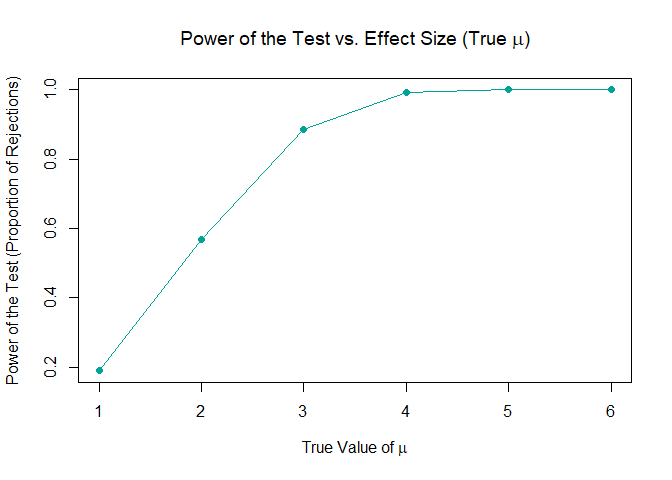
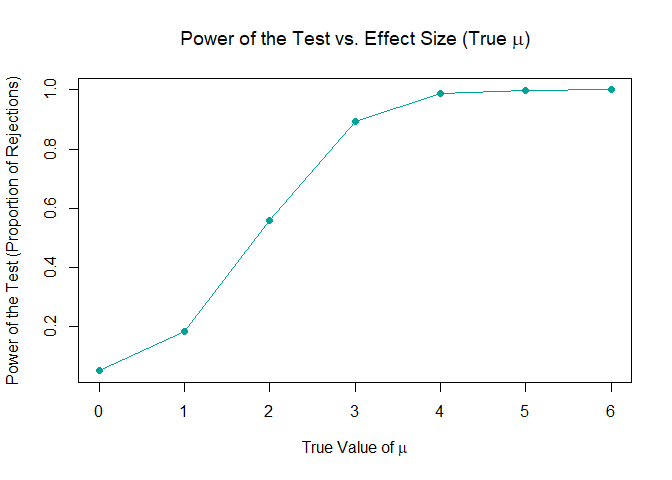
minor fixes; added kable to avoid potential point loss.

diff --git a/p8105_hw5_xx2485.md b/p8105_hw5_xx2485.md
@@ -11,6 +11,7 @@ library(dplyr)
 library(readr)
 library(purrr)
 library(tidyr)
+library(knitr)
 library(ggplot2)
 ```
 
@@ -32,7 +33,7 @@ has_duplicate_birthday <- function(n) {
 has_duplicate_birthday(23)
 ```
 
-    ## [1] TRUE
+    ## [1] FALSE
 
 Run this function 10000 times for each group size between 2 and 50.
 
@@ -114,7 +115,7 @@ Repeat for mu = 1, 2, 3, 4, 5, 6
 
 ``` r
 # Run the simulation for mu values from 1 to 6
-mu_values <- 1:6
+mu_values <- 0:6
 results <- list()
 
 for (mu in mu_values) {
@@ -196,7 +197,11 @@ No, the sample average of $\hat{\mu}$ across tests for which the null is
 rejected is generally NOT approximately equal to the true value of
 $\mu$. This discrepancy can be seen on the plot for lower $\mu$ values
 of 1, 2, and 3. For $\mu$ = 4, 5, 6, the sample average of $\hat{\mu}$
-is closer t the true value of $\mu$.
+is closer t the true value of $\mu$. For $\mu$ = 0, the observed data
+has no deviation from 0, thus no effect size. The variability in
+$\hat{\mu}$ only comes from random sampling error, which is balanced
+around the true value of 0. This explains $\hat{\mu}$ and $\mu$ being
+closer to each other at 0.
 
 This discrepancy arises due to selection bias. When we only consider
 samples in which the null hypothesis is rejected (i.e., $p < 0.05$), we
@@ -287,7 +292,70 @@ city_summary <- homicide_data %>%
     total_homicides = n(),
     unsolved_homicides = sum(disposition %in% unsolved_dispositions)
   )
+
+# Display the summarized data
+city_summary %>%
+  kable(
+    col.names = c("City, State", "Total Homicides", "Unsolved Homicides"),
+    caption = "Summary of Homicides by City"
+  )
 ```
+
+| City, State        | Total Homicides | Unsolved Homicides |
+|:-------------------|----------------:|-------------------:|
+| Albuquerque, NM    |             378 |                146 |
+| Atlanta, GA        |             973 |                373 |
+| Baltimore, MD      |            2827 |               1825 |
+| Baton Rouge, LA    |             424 |                196 |
+| Birmingham, AL     |             800 |                347 |
+| Boston, MA         |             614 |                310 |
+| Buffalo, NY        |             521 |                319 |
+| Charlotte, NC      |             687 |                206 |
+| Chicago, IL        |            5535 |               4073 |
+| Cincinnati, OH     |             694 |                309 |
+| Columbus, OH       |            1084 |                575 |
+| Dallas, TX         |            1567 |                754 |
+| Denver, CO         |             312 |                169 |
+| Detroit, MI        |            2519 |               1482 |
+| Durham, NC         |             276 |                101 |
+| Fort Worth, TX     |             549 |                255 |
+| Fresno, CA         |             487 |                169 |
+| Houston, TX        |            2942 |               1493 |
+| Indianapolis, IN   |            1322 |                594 |
+| Jacksonville, FL   |            1168 |                597 |
+| Kansas City, MO    |            1190 |                486 |
+| Las Vegas, NV      |            1381 |                572 |
+| Long Beach, CA     |             378 |                156 |
+| Los Angeles, CA    |            2257 |               1106 |
+| Louisville, KY     |             576 |                261 |
+| Memphis, TN        |            1514 |                483 |
+| Miami, FL          |             744 |                450 |
+| Milwaukee, wI      |            1115 |                403 |
+| Minneapolis, MN    |             366 |                187 |
+| Nashville, TN      |             767 |                278 |
+| New Orleans, LA    |            1434 |                930 |
+| New York, NY       |             627 |                243 |
+| Oakland, CA        |             947 |                508 |
+| Oklahoma City, OK  |             672 |                326 |
+| Omaha, NE          |             409 |                169 |
+| Philadelphia, PA   |            3037 |               1360 |
+| Phoenix, AZ        |             914 |                504 |
+| Pittsburgh, PA     |             631 |                337 |
+| Richmond, VA       |             429 |                113 |
+| Sacramento, CA     |             376 |                139 |
+| San Antonio, TX    |             833 |                357 |
+| San Bernardino, CA |             275 |                170 |
+| San Diego, CA      |             461 |                175 |
+| San Francisco, CA  |             663 |                336 |
+| Savannah, GA       |             246 |                115 |
+| St. Louis, MO      |            1677 |                905 |
+| Stockton, CA       |             444 |                266 |
+| Tampa, FL          |             208 |                 95 |
+| Tulsa, AL          |               1 |                  0 |
+| Tulsa, OK          |             583 |                193 |
+| Washington, DC     |            1345 |                589 |
+
+Summary of Homicides by City
 
 For the city of Baltimore, MD, use the `prop.test` function to estimate
 the proportion of homicides that are unsolved; save the output of
@@ -365,13 +433,82 @@ city_results <- homicide_data %>%
     ## Caused by warning in `prop.test()`:
     ## ! Chi-squared approximation may be incorrect
 
+``` r
+# Display city_results
+city_results %>%
+  kable(
+    col.names = c("City, State", "Estimated Proportion of Unsolved Cases", "Confidence Interval Low", "Confidence Interval High"),
+    caption = "Proportion of Unsolved Homicide Cases by City with Confidence Intervals"
+  )
+```
+
+| City, State        | Estimated Proportion of Unsolved Cases | Confidence Interval Low | Confidence Interval High |
+|:-------------------|---------------------------------------:|------------------------:|-------------------------:|
+| Albuquerque, NM    |                              0.3862434 |               0.3372604 |                0.4375766 |
+| Atlanta, GA        |                              0.3833505 |               0.3528119 |                0.4148219 |
+| Baltimore, MD      |                              0.6455607 |               0.6275625 |                0.6631599 |
+| Baton Rouge, LA    |                              0.4622642 |               0.4141987 |                0.5110240 |
+| Birmingham, AL     |                              0.4337500 |               0.3991889 |                0.4689557 |
+| Boston, MA         |                              0.5048860 |               0.4646219 |                0.5450881 |
+| Buffalo, NY        |                              0.6122841 |               0.5687990 |                0.6540879 |
+| Charlotte, NC      |                              0.2998544 |               0.2660820 |                0.3358999 |
+| Chicago, IL        |                              0.7358627 |               0.7239959 |                0.7473998 |
+| Cincinnati, OH     |                              0.4452450 |               0.4079606 |                0.4831439 |
+| Columbus, OH       |                              0.5304428 |               0.5002167 |                0.5604506 |
+| Dallas, TX         |                              0.4811742 |               0.4561942 |                0.5062475 |
+| Denver, CO         |                              0.5416667 |               0.4846098 |                0.5976807 |
+| Detroit, MI        |                              0.5883287 |               0.5687903 |                0.6075953 |
+| Durham, NC         |                              0.3659420 |               0.3095874 |                0.4260936 |
+| Fort Worth, TX     |                              0.4644809 |               0.4222542 |                0.5072119 |
+| Fresno, CA         |                              0.3470226 |               0.3051013 |                0.3913963 |
+| Houston, TX        |                              0.5074779 |               0.4892447 |                0.5256914 |
+| Indianapolis, IN   |                              0.4493192 |               0.4223156 |                0.4766207 |
+| Jacksonville, FL   |                              0.5111301 |               0.4820460 |                0.5401402 |
+| Kansas City, MO    |                              0.4084034 |               0.3803996 |                0.4370054 |
+| Las Vegas, NV      |                              0.4141926 |               0.3881284 |                0.4407395 |
+| Long Beach, CA     |                              0.4126984 |               0.3629026 |                0.4642973 |
+| Los Angeles, CA    |                              0.4900310 |               0.4692208 |                0.5108754 |
+| Louisville, KY     |                              0.4531250 |               0.4120609 |                0.4948235 |
+| Memphis, TN        |                              0.3190225 |               0.2957047 |                0.3432691 |
+| Miami, FL          |                              0.6048387 |               0.5685783 |                0.6400015 |
+| Milwaukee, wI      |                              0.3614350 |               0.3333172 |                0.3905194 |
+| Minneapolis, MN    |                              0.5109290 |               0.4585150 |                0.5631099 |
+| Nashville, TN      |                              0.3624511 |               0.3285592 |                0.3977401 |
+| New Orleans, LA    |                              0.6485356 |               0.6231048 |                0.6731615 |
+| New York, NY       |                              0.3875598 |               0.3494421 |                0.4270755 |
+| Oakland, CA        |                              0.5364308 |               0.5040588 |                0.5685037 |
+| Oklahoma City, OK  |                              0.4851190 |               0.4467861 |                0.5236245 |
+| Omaha, NE          |                              0.4132029 |               0.3653146 |                0.4627477 |
+| Philadelphia, PA   |                              0.4478103 |               0.4300380 |                0.4657157 |
+| Phoenix, AZ        |                              0.5514223 |               0.5184825 |                0.5839244 |
+| Pittsburgh, PA     |                              0.5340729 |               0.4942706 |                0.5734545 |
+| Richmond, VA       |                              0.2634033 |               0.2228571 |                0.3082658 |
+| Sacramento, CA     |                              0.3696809 |               0.3211559 |                0.4209131 |
+| San Antonio, TX    |                              0.4285714 |               0.3947772 |                0.4630331 |
+| San Bernardino, CA |                              0.6181818 |               0.5576628 |                0.6753422 |
+| San Diego, CA      |                              0.3796095 |               0.3354259 |                0.4258315 |
+| San Francisco, CA  |                              0.5067873 |               0.4680516 |                0.5454433 |
+| Savannah, GA       |                              0.4674797 |               0.4041252 |                0.5318665 |
+| St. Louis, MO      |                              0.5396541 |               0.5154369 |                0.5636879 |
+| Stockton, CA       |                              0.5990991 |               0.5517145 |                0.6447418 |
+| Tampa, FL          |                              0.4567308 |               0.3881009 |                0.5269851 |
+| Tulsa, AL          |                              0.0000000 |               0.0000000 |                0.9453792 |
+| Tulsa, OK          |                              0.3310463 |               0.2932349 |                0.3711192 |
+| Washington, DC     |                              0.4379182 |               0.4112495 |                0.4649455 |
+
+Proportion of Unsolved Homicide Cases by City with Confidence Intervals
+
 Create a plot that shows the estimates and CIs for each city; organize
 cities according to the proportion of unsolved homicides.
+
+Notes: There is no city called Tulsa in Alabama (AL) - this might be a
+typing error in the original dataset. This data point is thus omitted in
+the plot.
 
 ``` r
 # Arrange city_results by estimated proportion and remove rows with NA estimates
 plot_data <- city_results %>%
-  filter(city_state != "Tulsa, AL") %>% # Tulsa, AL only has 1 solved homicide case and is thus omitted.
+  filter(city_state != "Tulsa, AL") %>% # Tulsa, AL omitted
   arrange(estimated_proportion) %>%
   mutate(city_state = factor(city_state, levels = city_state))  # Organize cities in order
 
@@ -396,7 +533,7 @@ ggplot(plot_data, aes(x = city_state, y = estimated_proportion)) +
 
 ![](p8105_hw5_xx2485_files/figure-gfm/unnamed-chunk-13-1.png)<!-- -->
 
-### Some purely exploratory plots;
+### Some purely exploratory plots
 
 NOT PART OF THE ANSWER - DO NOT GRADE. Set to `eval = FALSE` at the
 moment.
